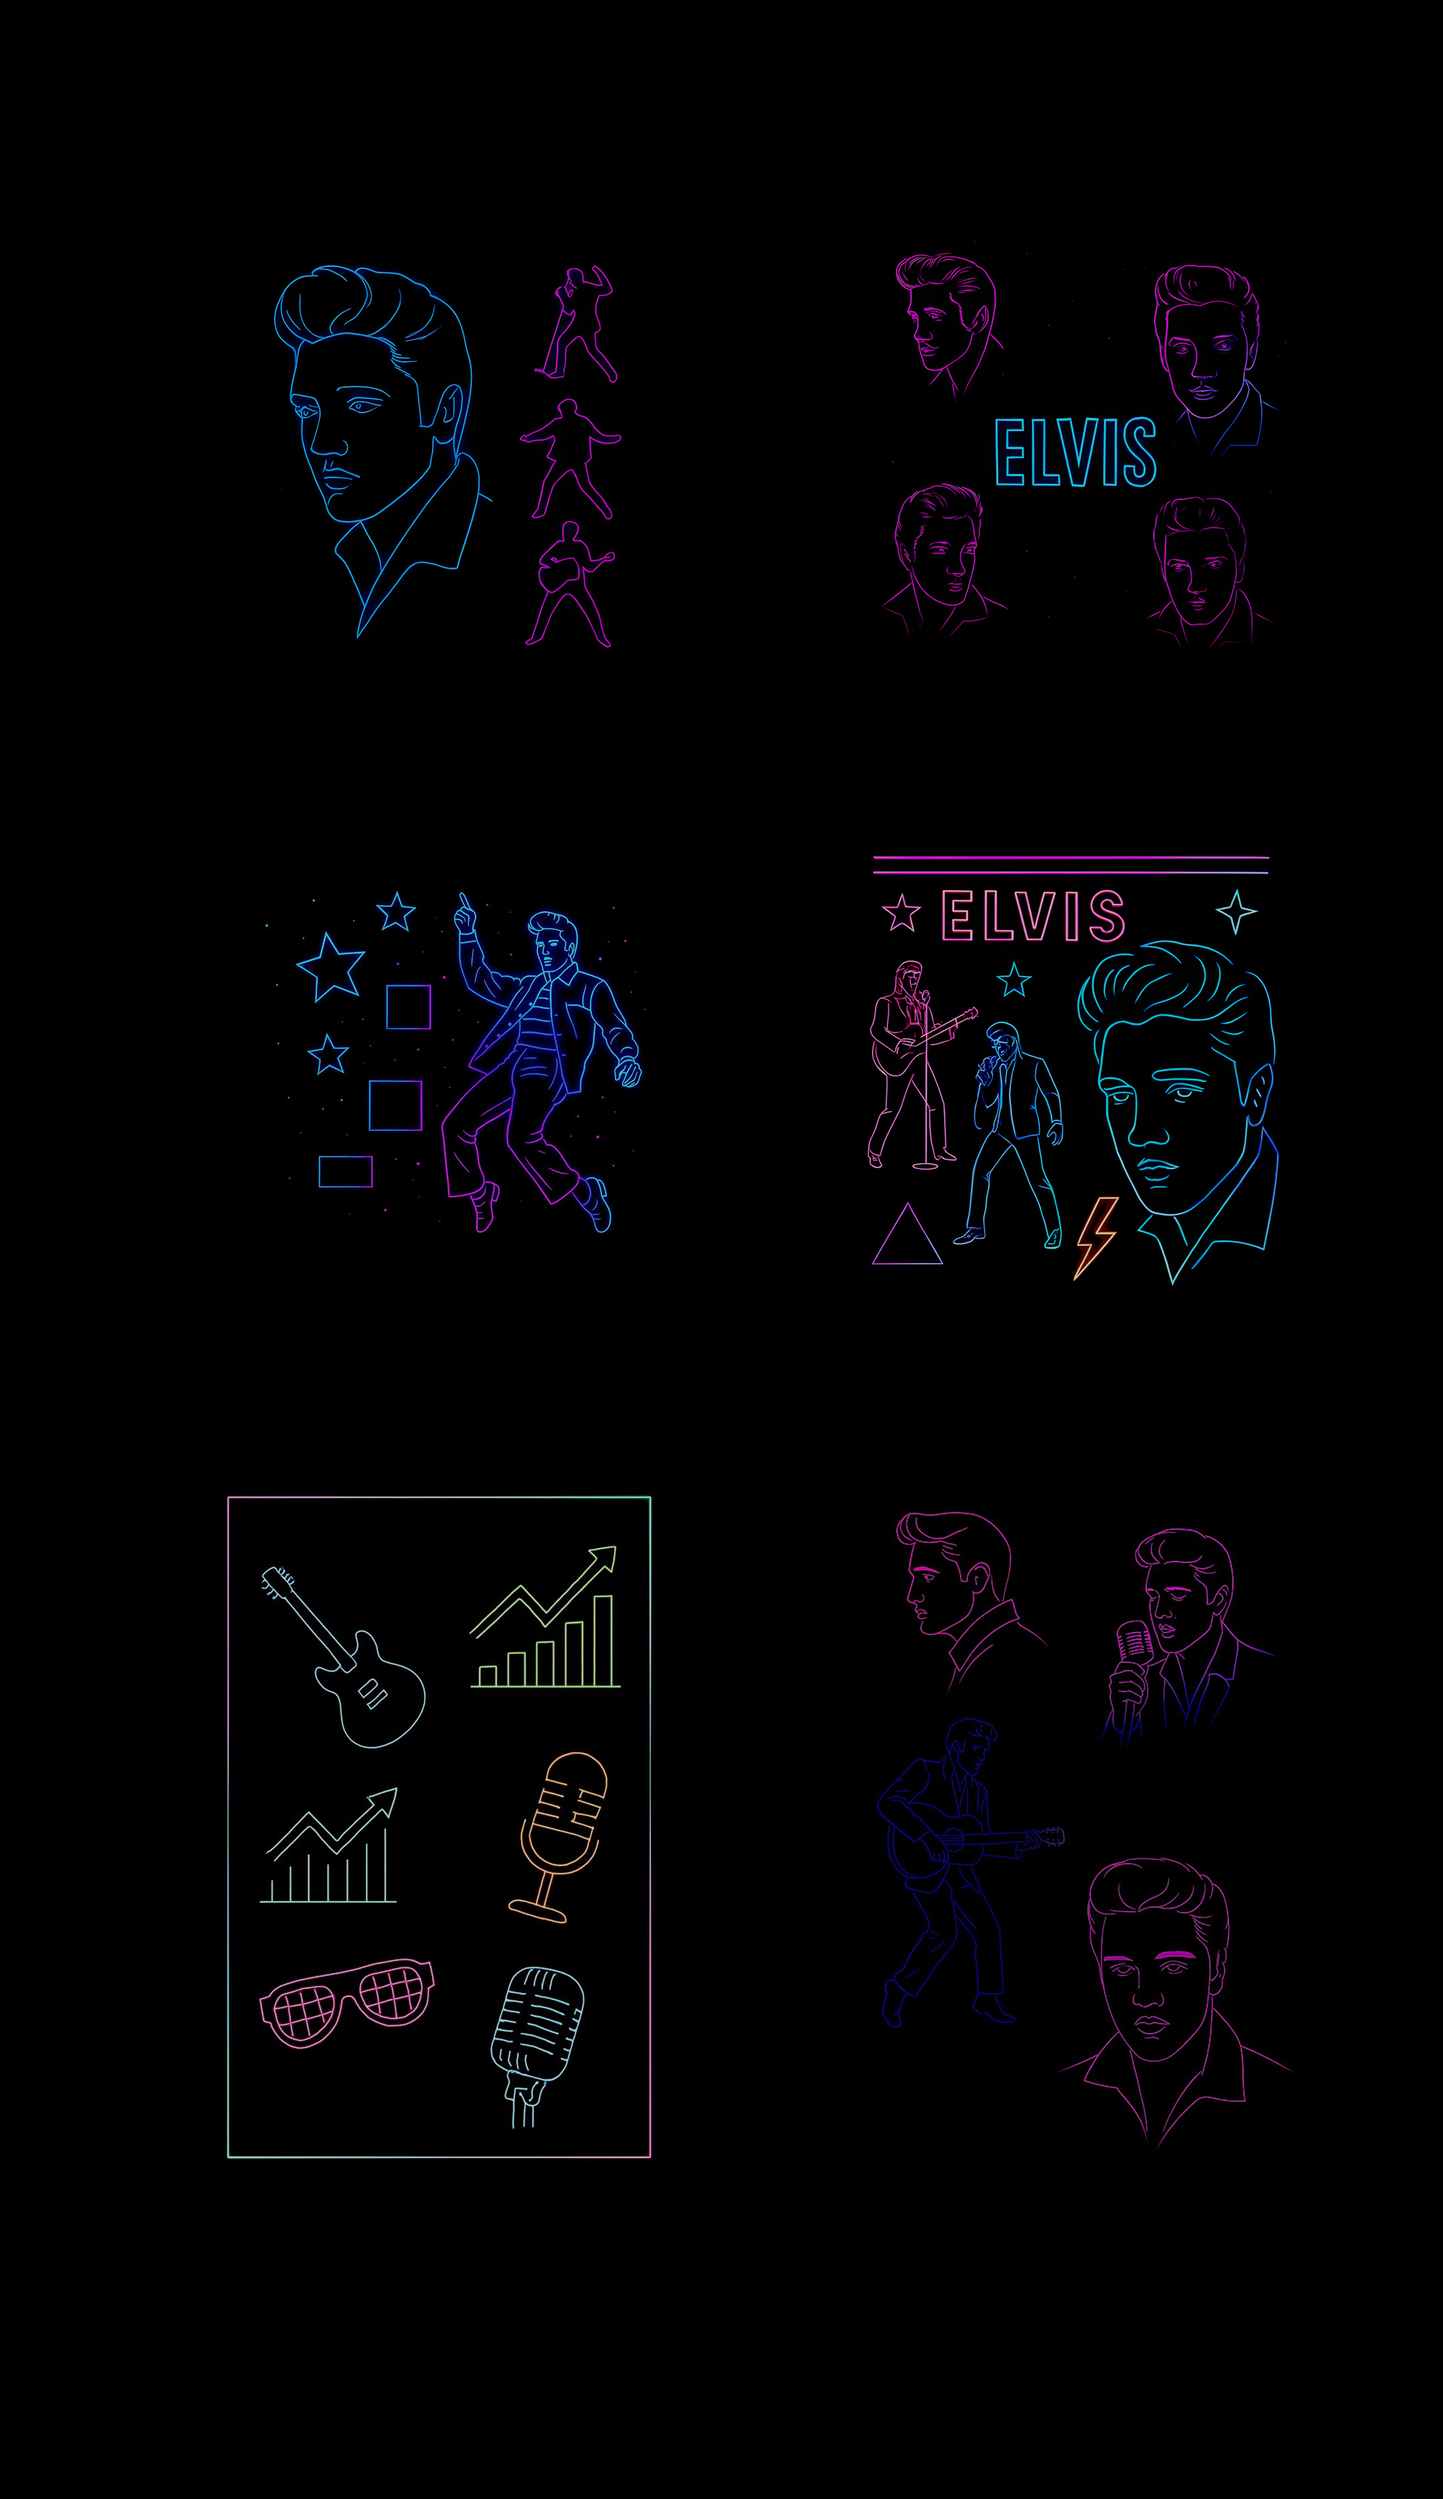
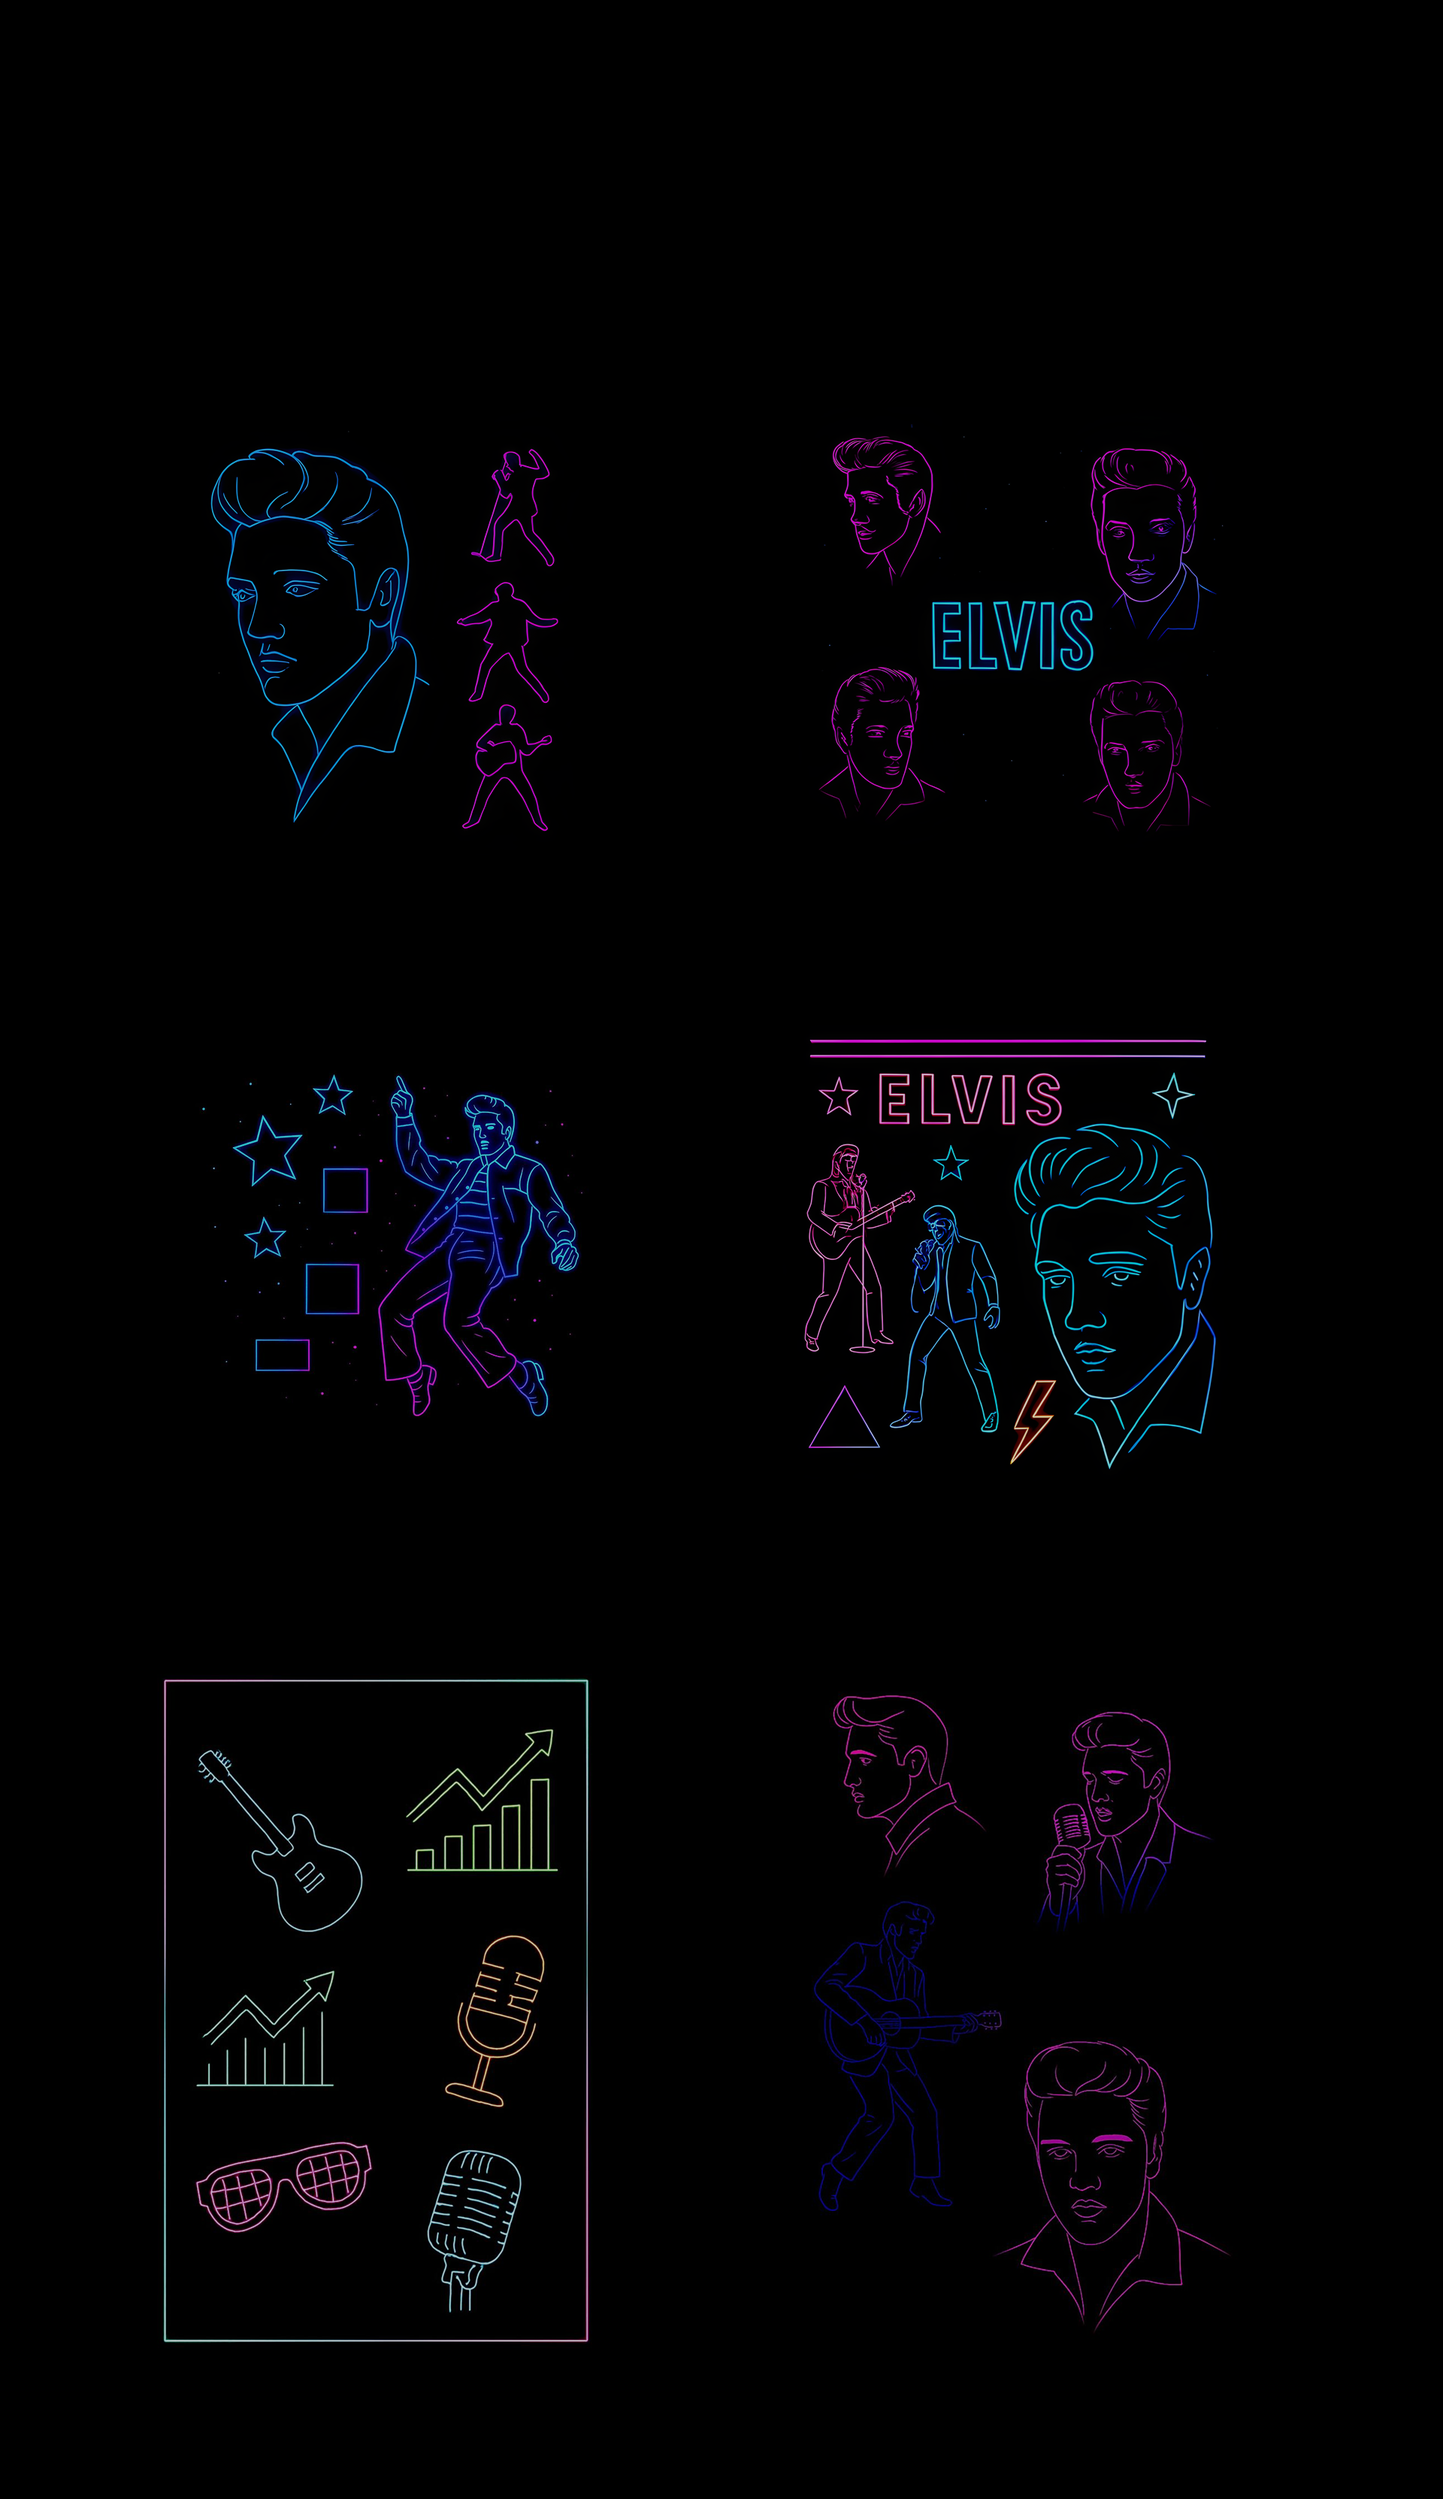
Улучшен задний фон

diff --git a/src/components/App/App.css b/src/components/App/App.css
@@ -1,9 +1,12 @@
 .app {
   margin: 0 auto;
   max-width: 100%;
+  min-height: 100vh;
   position: relative;
   background-repeat: no-repeat;
   background-size: cover;
+  background-position: top center;
+  /* background-attachment: fixed; */
 }
 .app__neon{
   background-image: url(../../images/Neon.png);

diff --git a/src/components/FoodList/FoodList.css b/src/components/FoodList/FoodList.css
@@ -22,10 +22,10 @@
   margin-top: 10px;
   margin-bottom: 10px;
   color: #ff2a70;
-  text-shadow: 0 0 3px #ff2a70;
+  text-shadow: 0 0 3px #000000;
 
   font-family: Inter;
-  font-size: 35px;
+  font-size: 30px;
   font-style: normal;
   font-weight: 400;
   line-height: normal;

diff --git a/src/components/Header/Header.css b/src/components/Header/Header.css
@@ -8,6 +8,7 @@
   background-color: #000;
   justify-content: space-between;
   align-items: center;
+  z-index: 1000;
 }
 /* Градиентная полоска снизу */
 .header::after {
